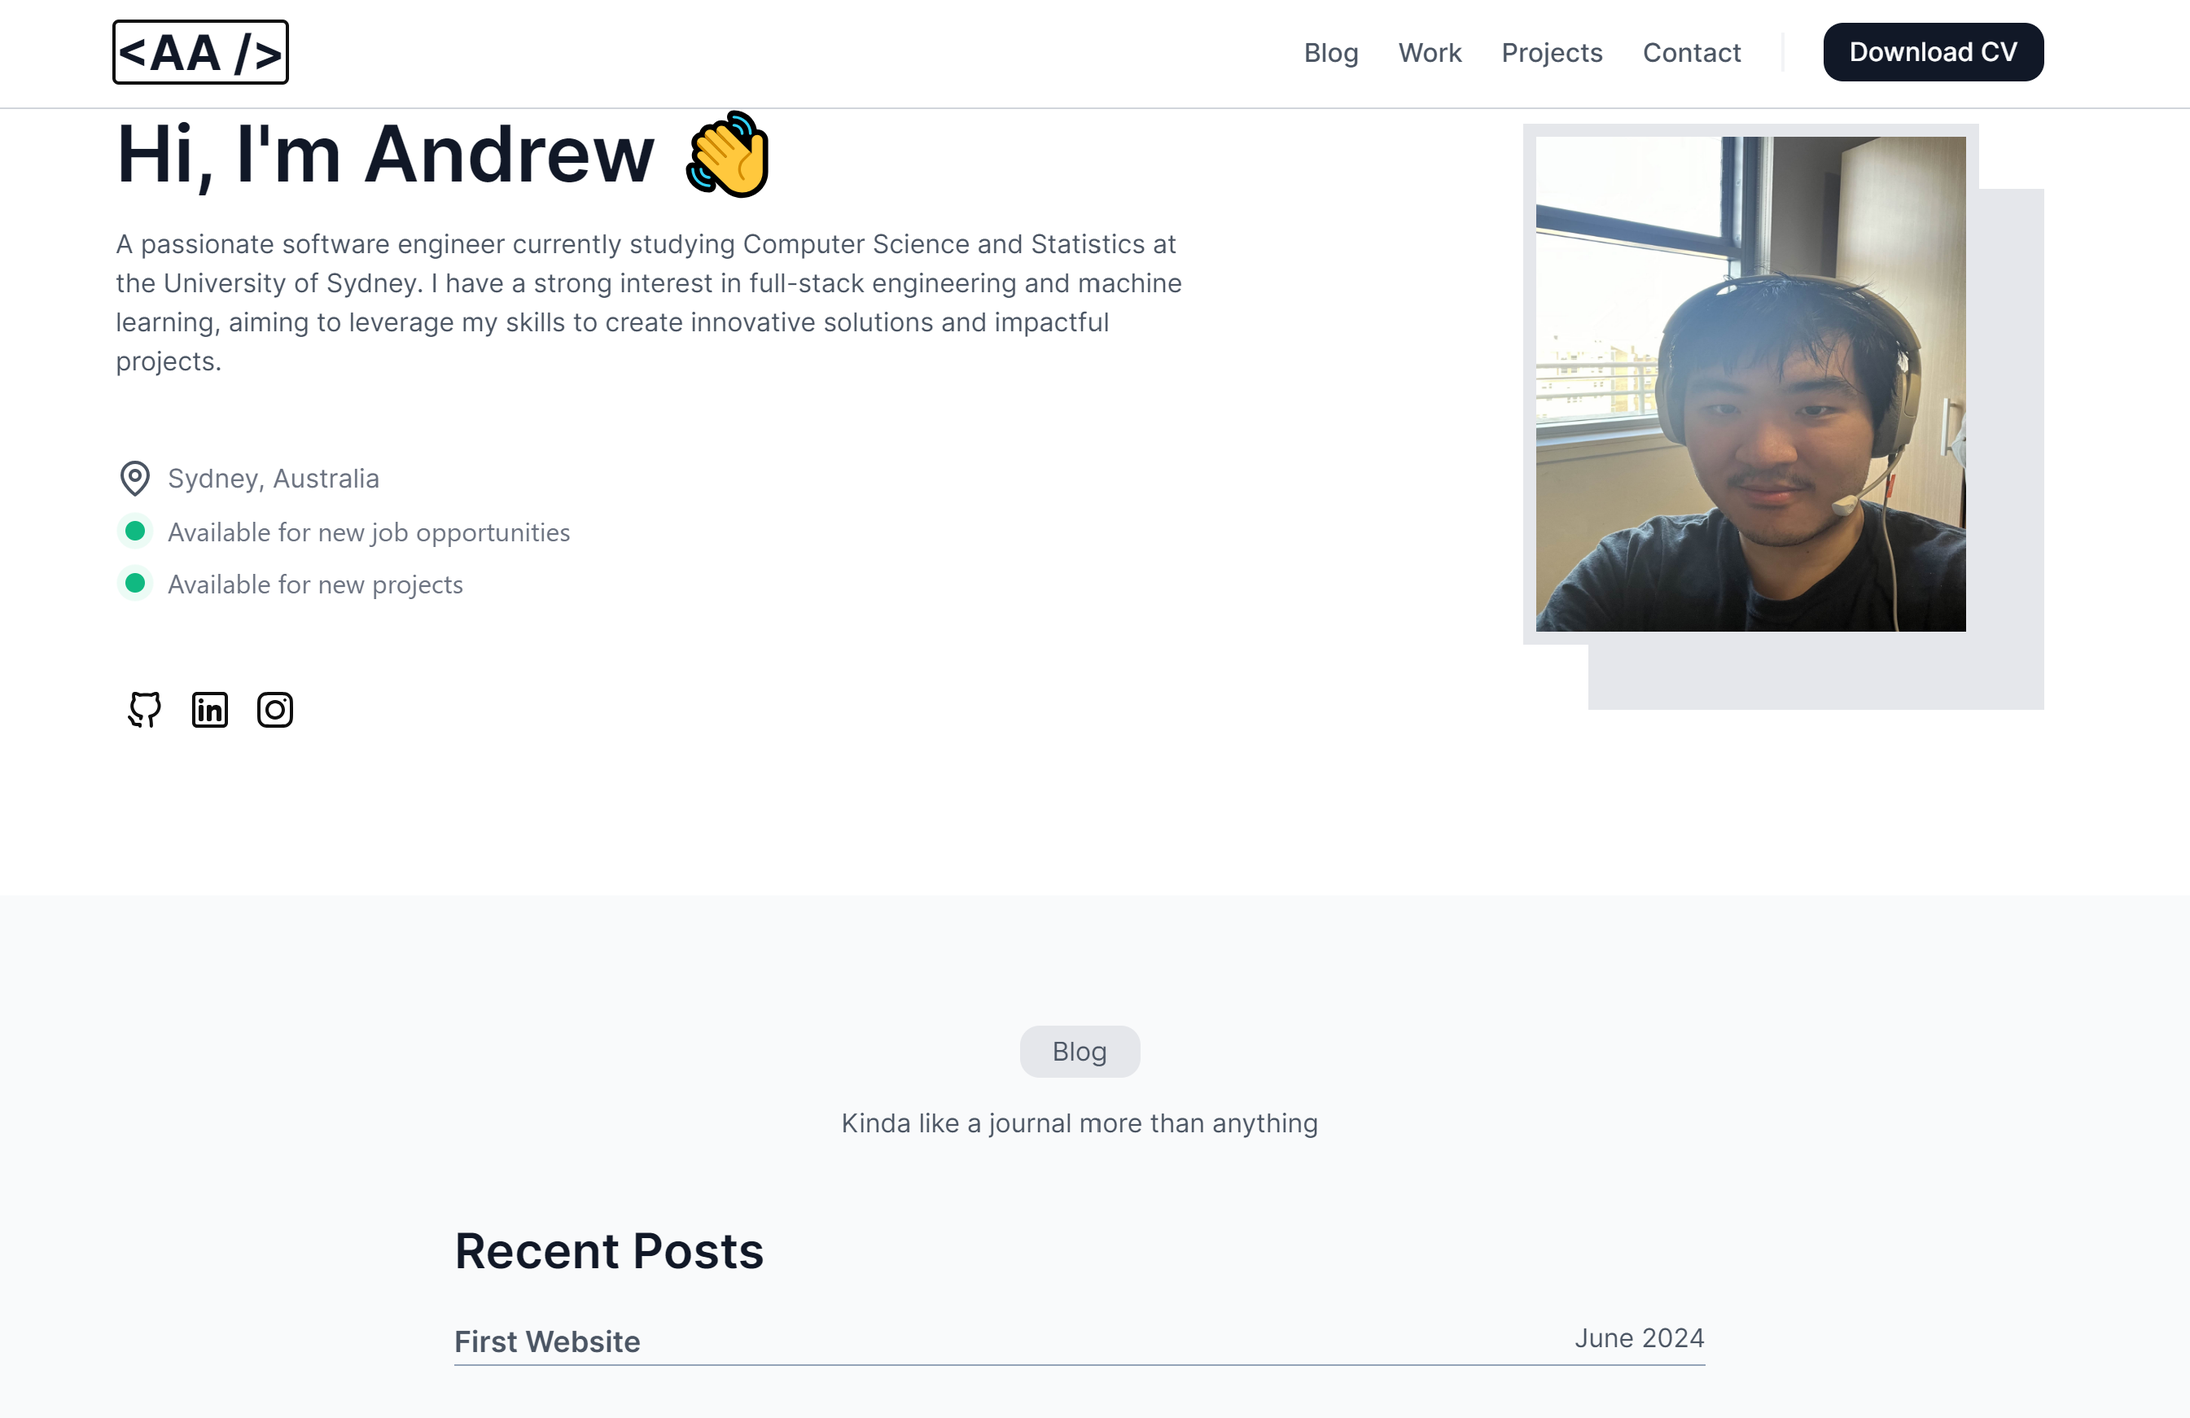
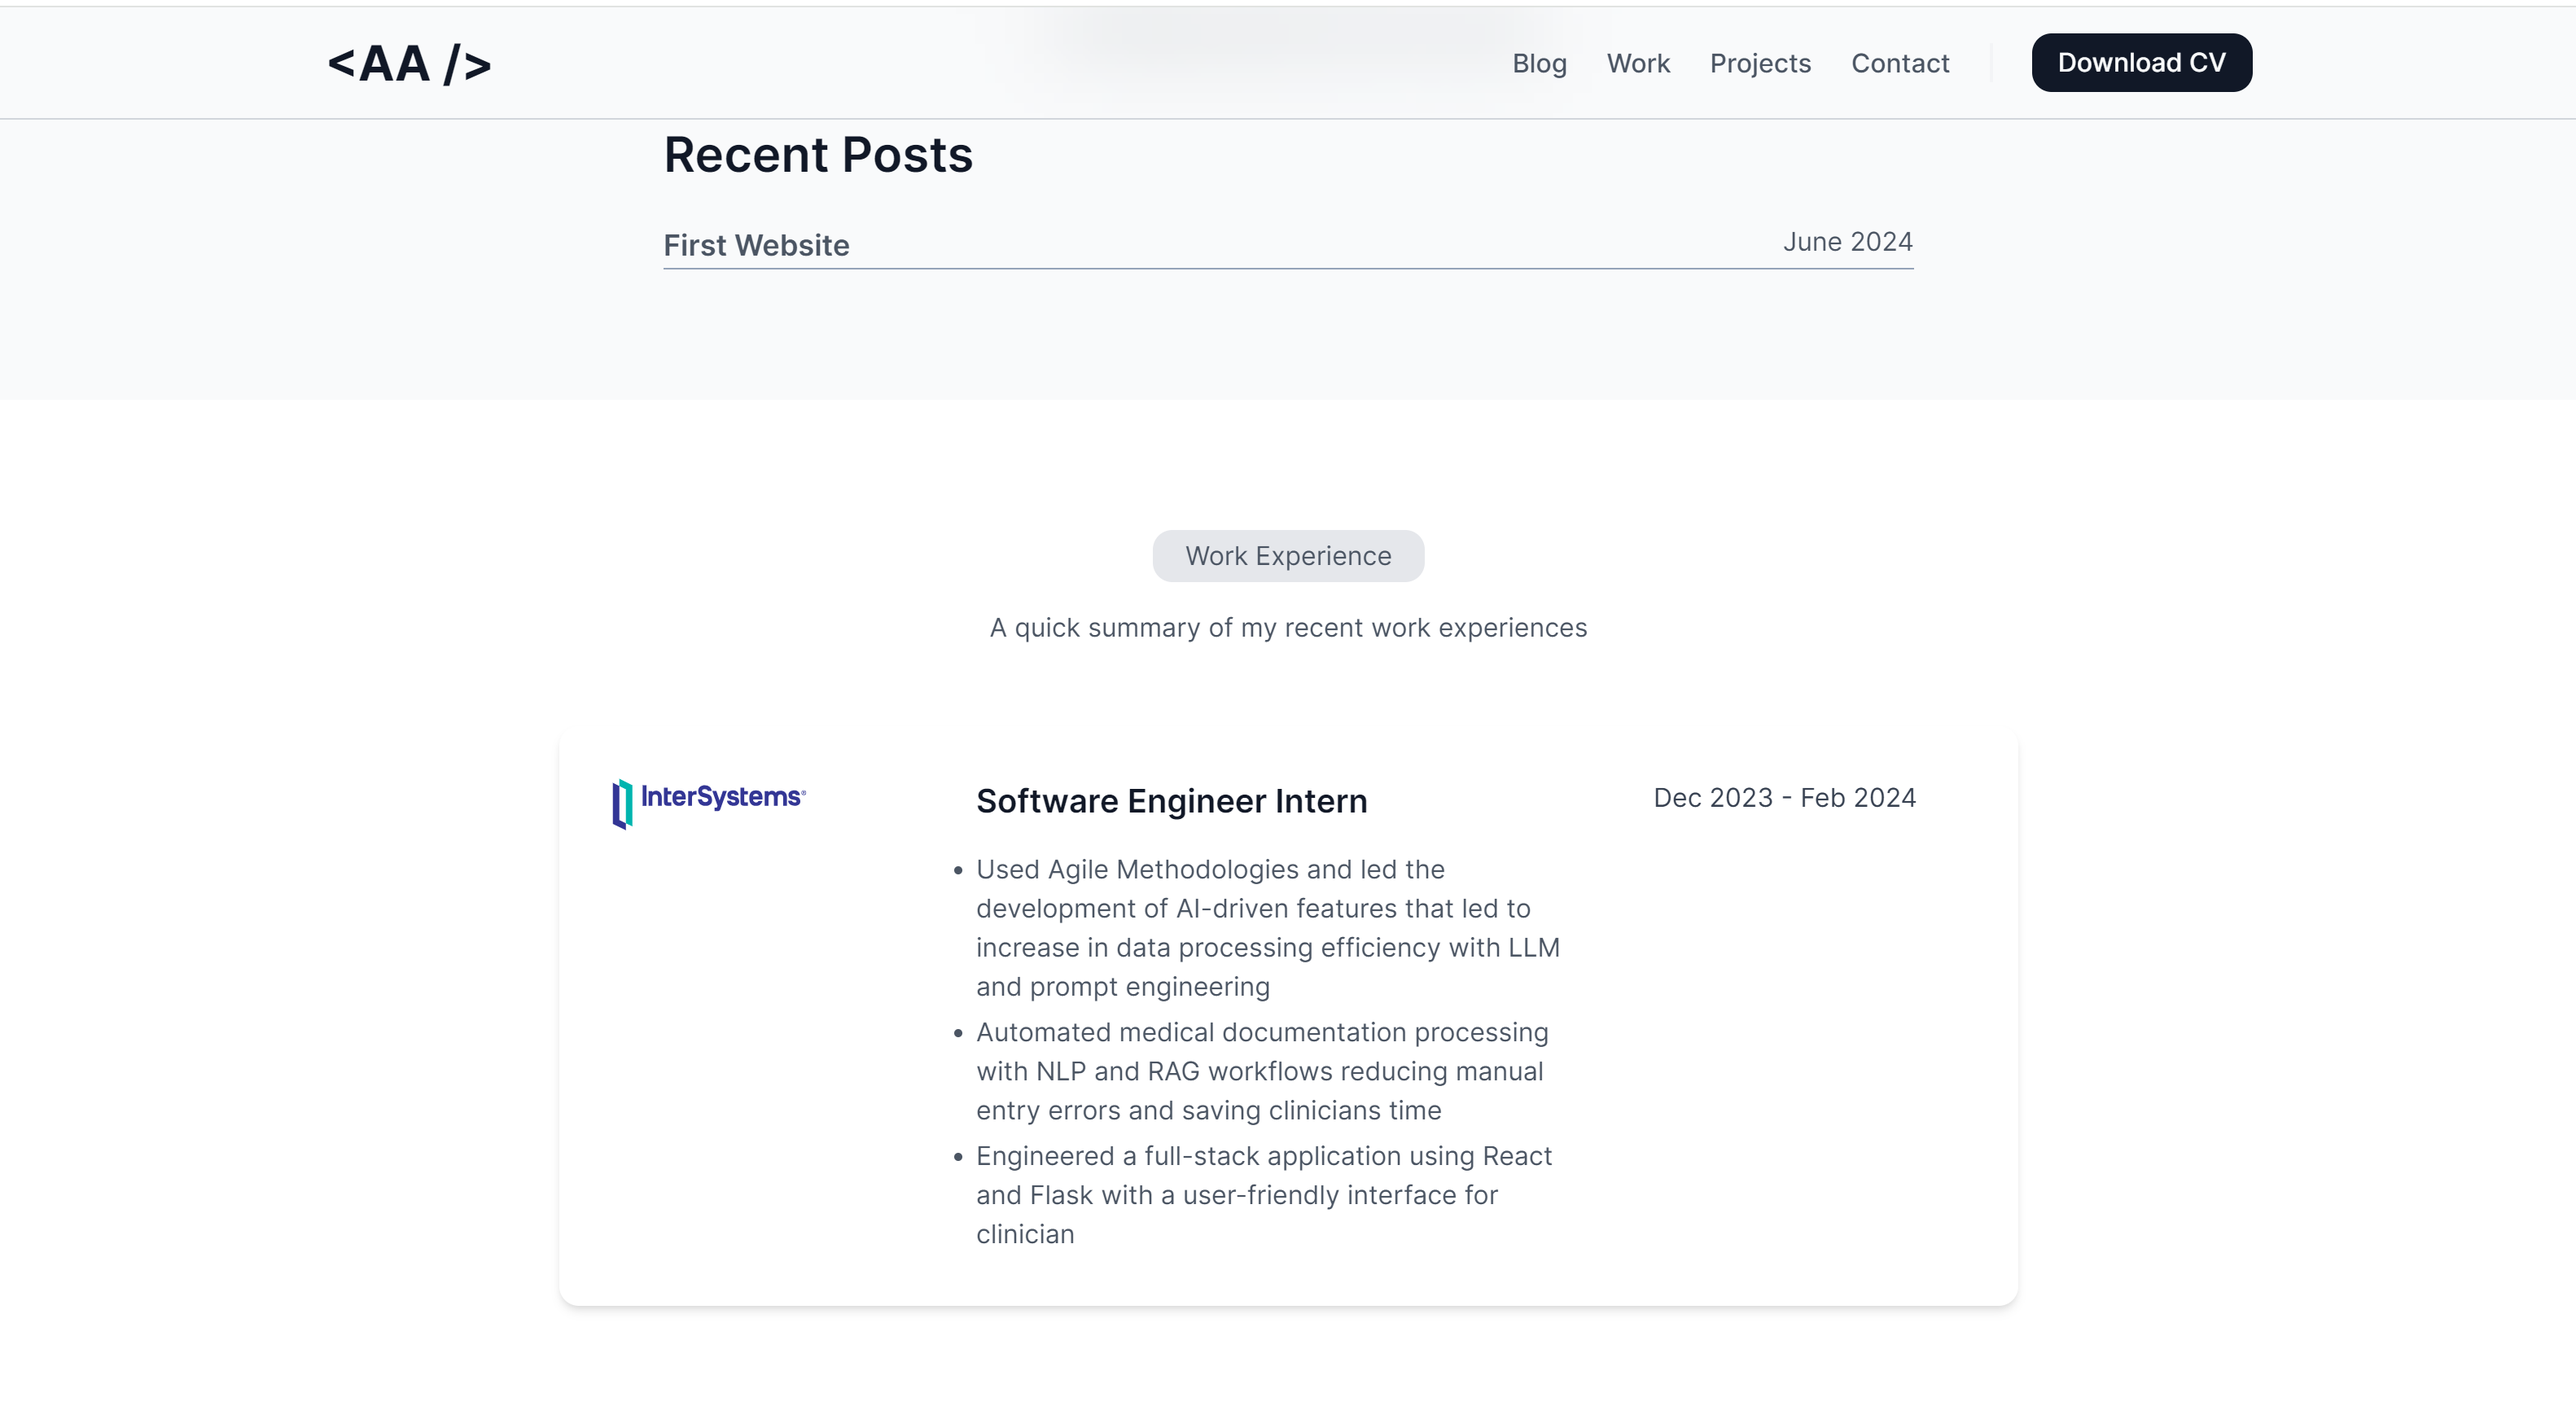
Removed KFC and added new project

diff --git a/src/components/Sections/Project.tsx b/src/components/Sections/Project.tsx
@@ -7,9 +7,9 @@ function Project(){
             description: "A website to showcase my experiences, projects, and also to act as a journal with regular blog posts. It also includes a portfolio section highlighting my skills and achievements",
             picture_path: "/project_pictures/AA.png",
             skills: [
-                "React", "TailwindCSS"
+                "React", "TailwindCSS", "React Router DOM"
             ],
-            link: "https://AndrewAnggara.dev",
+            link: "https://github.com/TimothyAnggara/plswork",
             align: true
         },
         {
@@ -17,10 +17,20 @@ function Project(){
             description: "A platform targeted at students to help with budgeting their university lives and being able to look at their spending through a dashboard",
             picture_path: "/project_pictures/kap.png",
             skills: [
-                "Python", "Flask", "React"
+                "Node.js", "React", "SQL"
             ],
-            link: "https://github.com/AndrewAnggara/BudgetSmart",
+            link: "https://github.com/TimothyAnggara/BudgetSmart",
             align: false
+        },
+        {
+            project: "Adult Income Classifier",
+            description: "Created a random forest classifier with R to identify whether a person will have a income of greater than $50,000 with an accuracy of 80%",
+            picture_path: "/project_pictures/AdultIncome.png",
+            skills: [
+                "R", "Machine Learning", "Random Forest"
+            ],
+            link: "https://github.com/TimothyAnggara/Adult-Income-ML",
+            align: true
         }
         // Add more projects as needed
     ];

diff --git a/src/components/SubComponents/ProjectCard.tsx b/src/components/SubComponents/ProjectCard.tsx
@@ -9,7 +9,7 @@ type ProjectCardProp = {
     align: boolean
 }
 
-function ProjectCard({project, description, picture_path, skills, align}: ProjectCardProp){
+function ProjectCard({project, description, picture_path, link, skills, align}: ProjectCardProp){
     let left;
     if(!align){
         left = "order-last"
@@ -30,7 +30,7 @@ function ProjectCard({project, description, picture_path, skills, align}: Projec
                         <SkillBox key={index} skill={skill}/>
                     ))}
                 </div>
-                <a className="self-start rounded-lg p-1.5 hover:bg-gray-50 [&_svg]:stroke-gray-500">
+                <a className="self-start rounded-lg p-1.5 hover:bg-gray-200 [&_svg]:stroke-gray-500 cursor-pointer" href={link}>
                     <ExternalLink />
                 </a>
             </div>

diff --git a/src/components/Sections/Experience.tsx b/src/components/Sections/Experience.tsx
@@ -16,18 +16,6 @@ function Experience(){
             ],
             align: true
         },
-        {
-            logo_path: kfc, 
-            role: 'Back of House', 
-            start: 'Sept 2022', 
-            end: 'March 2023',
-            responsibilities: [
-                "Collaborated effectively with team members to ensure timely and accurate order fulfillment",
-                "Trained new team members, enhancing communication and instructional skills",
-                "Maintained high standards of quality and consistency through attention to detail and adherence to guidelines"
-            ],
-            align: false
-        }
     ]
 
     return(
